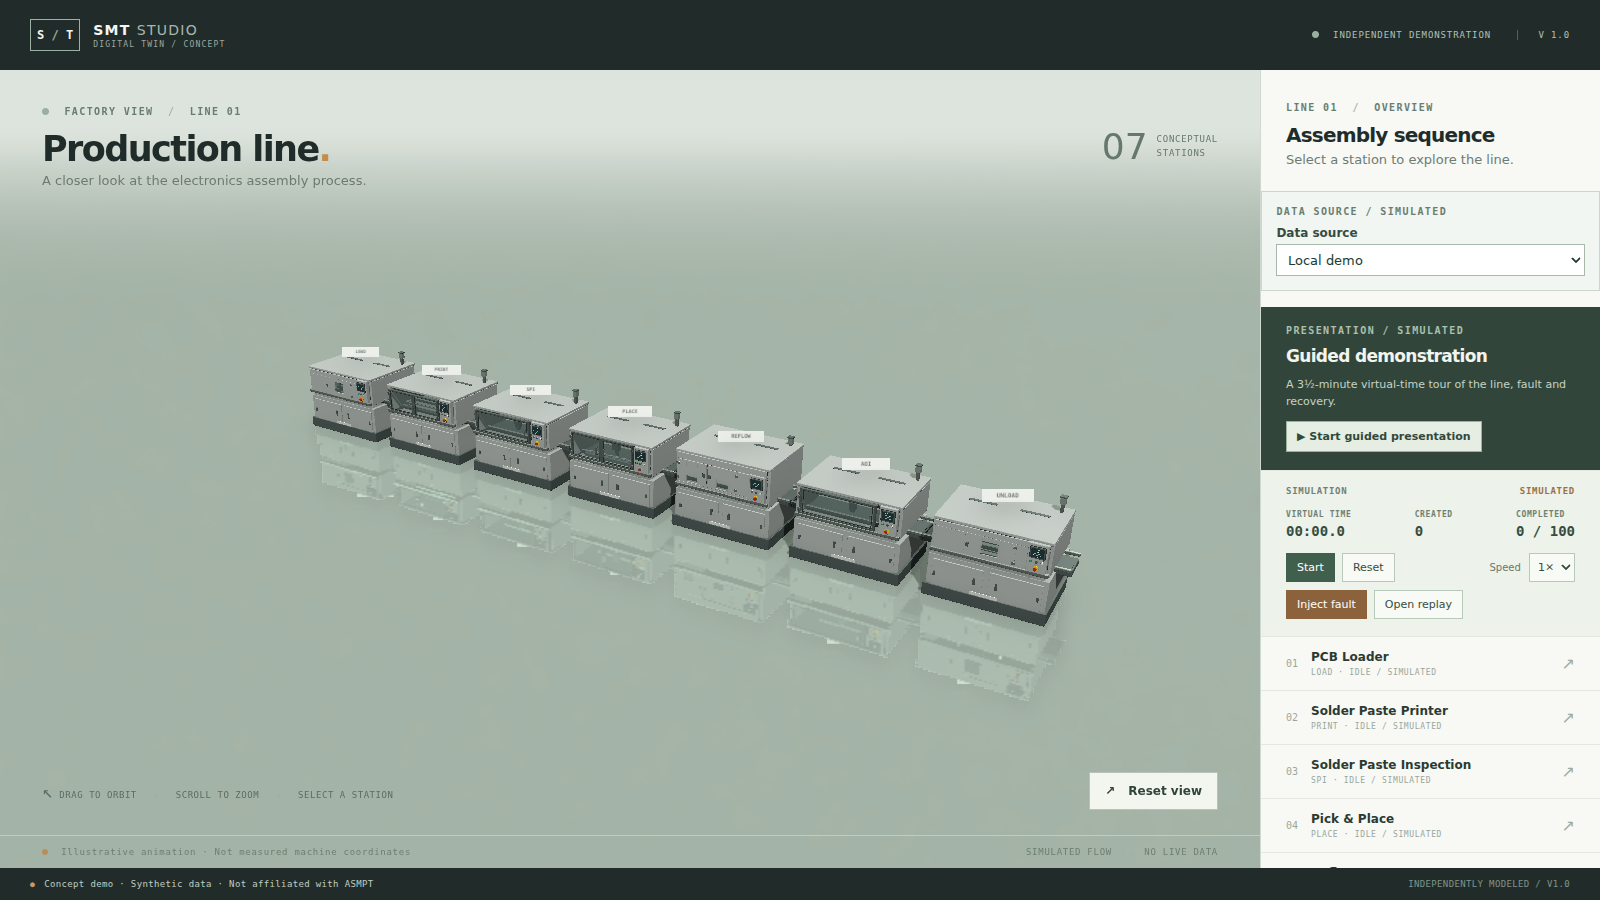
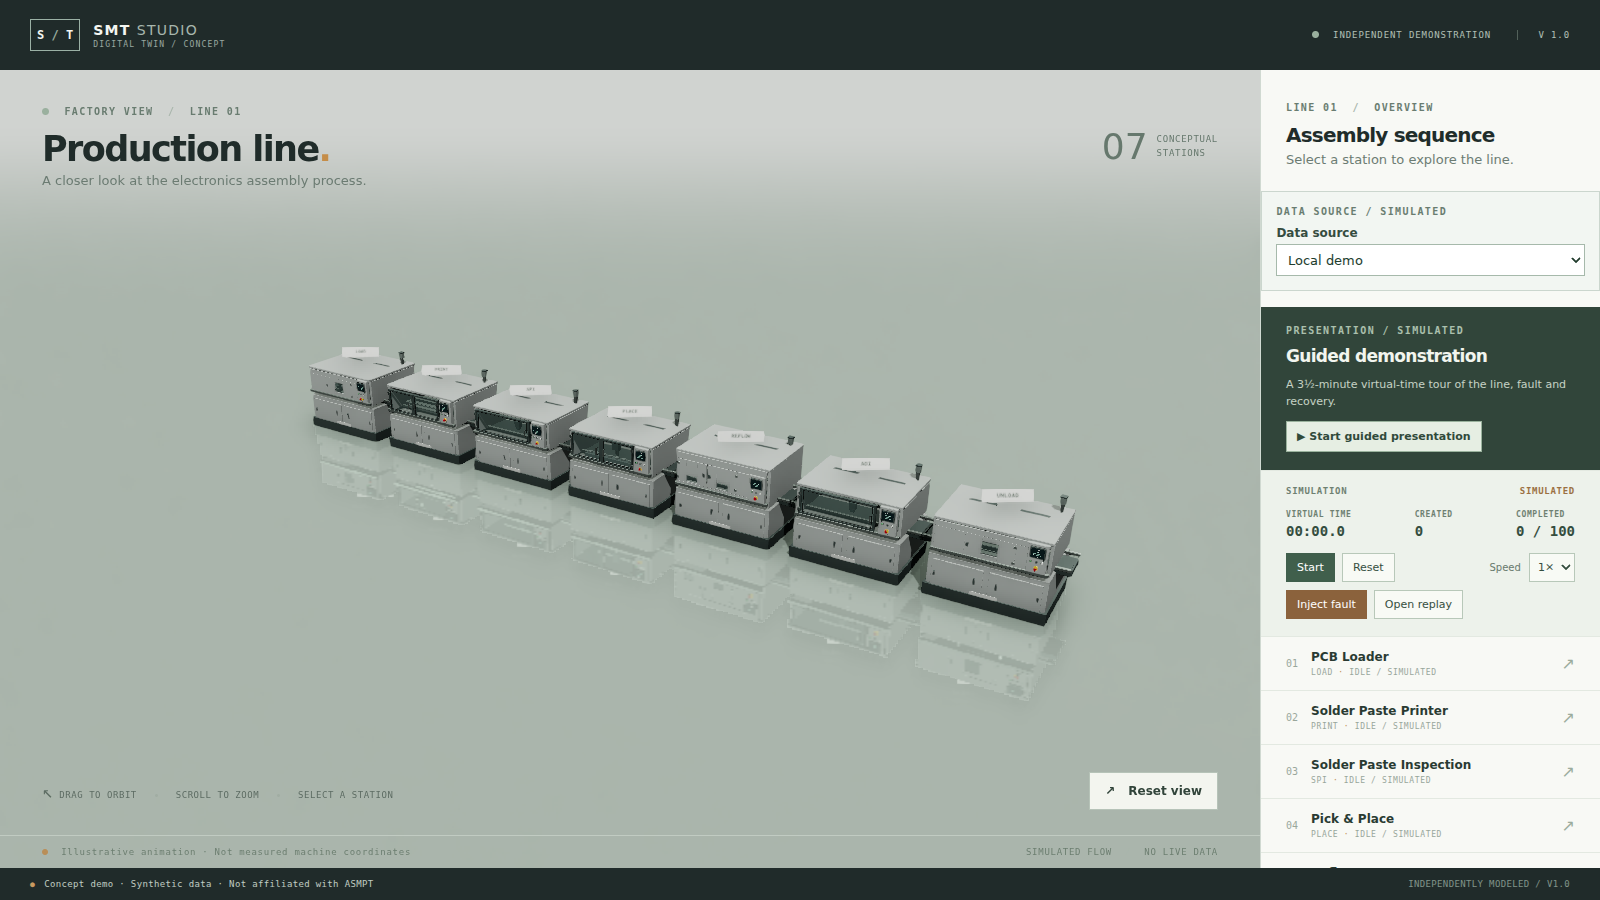
fix: restore tone mapping and MSAA, gate AO on float targets
Review found the composer bypassed ACES/exposure, dropped MSAA, recreated
itself on every resize and blanked the stage without float render targets.

diff --git a/src/scene/AO.tsx b/src/scene/AO.tsx
@@ -1,31 +1,52 @@
 import { useEffect, useMemo } from 'react'
 import { useFrame, useThree } from '@react-three/fiber'
 import { EffectComposer } from 'three/examples/jsm/postprocessing/EffectComposer.js'
+import { OutputPass } from 'three/examples/jsm/postprocessing/OutputPass.js'
+import { SMAAPass } from 'three/examples/jsm/postprocessing/SMAAPass.js'
 import { N8AOPass } from 'n8ao'
+import { aoSupported } from './ao'
 
 /**
  * Screen-space ambient occlusion for the contact shadows under and inside the machines.
- * Renders through a composer itself, so this component takes over rendering (useFrame priority 1).
+ *
+ * N8AO draws the scene into its own float targets, so three's tone mapping and MSAA do not apply:
+ * gamma correction is left to the OutputPass, and SMAA replaces the lost multisampling. The composer
+ * owns rendering (priority 1) and is built once; resizes only call `setSize`.
  */
 export default function AmbientOcclusion() {
   const { gl, scene, camera, size, viewport } = useThree()
+  const supported = aoSupported(gl.extensions)
   const composer = useMemo(() => {
+    if (!supported) return null
     const instance = new EffectComposer(gl)
-    const pass = new N8AOPass(scene, camera, size.width, size.height)
-    pass.configuration.aoRadius = 0.6
-    pass.configuration.distanceFalloff = 0.8
-    pass.configuration.intensity = 1.5
-    pass.configuration.halfRes = true
-    instance.addPass(pass)
+    const ao = new N8AOPass(scene, camera, size.width, size.height)
+    ao.configuration.aoRadius = 1.0
+    ao.configuration.distanceFalloff = 1.0
+    ao.configuration.intensity = 2.5
+    ao.configuration.halfRes = true
+    ao.configuration.gammaCorrection = false
+    instance.addPass(ao)
+    instance.addPass(new SMAAPass())
+    instance.addPass(new OutputPass())
     return instance
-  }, [gl, scene, camera, size.width, size.height])
+    // Built once per renderer/scene/camera; size changes go through setSize below.
+  }, [gl, scene, camera, supported])
 
   useEffect(() => {
+    if (!composer) {
+      console.warn('Ambient occlusion disabled: the WebGL context has no float render targets.')
+      document.body.dataset.renderer = 'direct'
+      return
+    }
+    document.body.dataset.renderer = 'composed'
     composer.setPixelRatio(viewport.dpr)
     composer.setSize(size.width, size.height)
   }, [composer, size.width, size.height, viewport.dpr])
 
-  useEffect(() => () => composer.dispose(), [composer])
-  useFrame(() => composer.render(), 1)
+  useEffect(() => () => composer?.dispose(), [composer])
+  useFrame(() => {
+    if (composer) composer.render()
+    else gl.render(scene, camera)
+  }, 1)
   return null
 }

diff --git a/tests/e2e/factory.spec.ts b/tests/e2e/factory.spec.ts
@@ -40,7 +40,7 @@ test('a drag during the push-in cancels the ease without breaking the scene', as
   expect(errors).toEqual([])
 })
 
-for (const [mode, query] of [['ambient occlusion', ''], ['low quality', '?quality=low']]) {
+for (const [mode, query, renderer] of [['ambient occlusion', '', 'composed'], ['low quality', '?quality=low', 'direct']]) {
 test(`renders the scene with ${mode} without console errors or cross-origin requests`, async ({ page }) => {
   const errors: string[] = []
   const external: string[] = []
@@ -53,6 +53,7 @@ test(`renders the scene with ${mode} without console errors or cross-origin requ
   })
   await page.goto(`/${query}`)
   await expect(page.locator('canvas')).toBeVisible()
+  await expect(page.locator('body')).toHaveAttribute('data-renderer', renderer)
   await page.waitForTimeout(1500)
   await page.screenshot({ path: `test-results/overview-${query ? 'low' : 'ao'}.png`, animations: 'disabled' })
   await page.getByRole('button', { name: /Pick & Place/ }).click()
@@ -62,3 +63,19 @@ test(`renders the scene with ${mode} without console errors or cross-origin requ
   expect(errors).toEqual([])
 })
 }
+
+test('falls back to direct rendering when the context cannot render to float targets', async ({ page }) => {
+  await page.addInitScript(() => {
+    const original = WebGL2RenderingContext.prototype.getExtension
+    WebGL2RenderingContext.prototype.getExtension = function (name: string) {
+      if (name === 'EXT_color_buffer_float') return null
+      return original.call(this, name)
+    }
+  })
+  const warnings: string[] = []
+  page.on('console', message => { if (message.type() === 'warning') warnings.push(message.text()) })
+  await page.goto('/')
+  await expect(page.locator('canvas')).toBeVisible()
+  await expect(page.locator('body')).toHaveAttribute('data-renderer', 'direct')
+  await expect.poll(() => warnings.some(text => text.includes('Ambient occlusion disabled'))).toBe(true)
+})

diff --git a/src/scene/Factory.tsx b/src/scene/Factory.tsx
@@ -17,6 +17,11 @@ import AmbientOcclusion from './AO'
 import { aoEnabled } from './ao'
 import { castsShadow } from './assetMaterials'
 
+function RenderMode({ mode }: { mode: 'composed' | 'direct' }) {
+  useEffect(() => { document.body.dataset.renderer = mode }, [mode])
+  return null
+}
+
 function Box({ position, size, color, metal = 0.25, name }: { position: [number, number, number]; size: [number, number, number]; color: string; metal?: number; name?: string }) {
   return <mesh name={name} position={position} castShadow receiveShadow><boxGeometry args={size} /><meshStandardMaterial color={color} metalness={metal} roughness={0.57} /></mesh>
 }
@@ -210,7 +215,9 @@ export default function Factory({ selected, onSelect, resetKey, scene, selectedB
   return <Canvas shadows dpr={[1, 1.5]} gl={{ toneMappingExposure: EXPOSURE }} camera={{ position: overviewCamera.position, fov: 40 }} fallback={<div className="canvas-fallback">3D view unavailable. WebGL is required to view the factory.</div>}>
     <color attach="background" args={['#dde4dd']} /><fog attach="fog" args={['#dde4dd', 45, 110]} />
     <LightRig />
-    {aoEnabled(typeof window === 'undefined' ? '' : window.location.search) && <AmbientOcclusion />}
+    {aoEnabled(typeof window === 'undefined' ? '' : window.location.search)
+      ? <AmbientOcclusion />
+      : <RenderMode mode="direct" />}
     <Floor />
     {stations.map(station => <Machine key={station.id} station={station} machine={scene.stations[station.id]?.localMotion ?? null} status={scene.stations[station.id]?.state ?? 'UNKNOWN'} time={scene.simTimeMs} selected={selected?.id === station.id || boardStation === station.id} onSelect={() => onSelect(station)} />)}
     <Boards scene={scene} selectedBoard={selectedBoard} onSelectBoard={onSelectBoard} /><CameraRig station={selected} resetKey={resetKey} />

diff --git a/tests/unit/ao.test.ts b/tests/unit/ao.test.ts
@@ -1,5 +1,5 @@
 import { describe, expect, it } from 'vitest'
-import { aoEnabled } from '../../src/scene/ao'
+import { aoEnabled, aoSupported } from '../../src/scene/ao'
 
 describe('ambient occlusion switch', () => {
   it('runs by default and in remote mode', () => {
@@ -11,5 +11,17 @@ describe('ambient occlusion switch', () => {
   it('is skipped with the existing low-quality switch', () => {
     expect(aoEnabled('?quality=low')).toBe(false)
     expect(aoEnabled('?source=remote&quality=low')).toBe(false)
+  })
+
+  it('can be disabled without skipping the environment, for comparison', () => {
+    expect(aoEnabled('?ao=off')).toBe(false)
+    expect(aoEnabled('?ao=on&quality=low')).toBe(false)
+  })
+})
+
+describe('ambient occlusion capability', () => {
+  it('requires float render targets', () => {
+    expect(aoSupported({ has: name => name === 'EXT_color_buffer_float' })).toBe(true)
+    expect(aoSupported({ has: () => false })).toBe(false)
   })
 })

diff --git a/src/scene/ao.ts b/src/scene/ao.ts
@@ -1,4 +1,14 @@
-/** `?quality=low` also skips the ambient-occlusion pass: its depth prepass is the expensive part. */
+/**
+ * `?quality=low` skips the ambient-occlusion pass along with the environment bake.
+ * `?ao=off` skips only the pass, which is how its cost and its look are compared.
+ */
 export function aoEnabled(search: string): boolean {
-  return new URLSearchParams(search).get('quality') !== 'low'
+  const params = new URLSearchParams(search)
+  if (params.get('quality') === 'low') return false
+  return params.get('ao') !== 'off'
+}
+
+/** N8AO renders into half-float colour and full-float depth targets; without them the stage goes blank. */
+export function aoSupported(extensions: { has(name: string): boolean }): boolean {
+  return extensions.has('EXT_color_buffer_float')
 }

diff --git a/src/types/n8ao.d.ts b/src/types/n8ao.d.ts
@@ -12,6 +12,7 @@ declare module 'n8ao' {
       halfRes: boolean
       depthAwareUpsampling: boolean
       transparencyAware: boolean
+      gammaCorrection: boolean
     }
   }
 }

diff --git a/docs/MATERIALS_AO_REPORT.md b/docs/MATERIALS_AO_REPORT.md
@@ -4,9 +4,10 @@ Date: 2026-11-13. Branch: `v16-materials-ao`. **Awaiting user visual acceptance.
 
 ## Delivered
 
-- **Powder coat** changed from a bright, semi-metallic paint to matte paint: base colour `(.46, .49, .47)` (was `.68/.72/.69`), metallic `.04` (was `.27`), roughness `.62` (was `.48`). The metallic value on a non-metal surface was the main source of the plastic sheen. All seven GLBs were regenerated from the same geometry; only material factors changed.
-- **Ambient occlusion** via the `n8ao` pass (`N8AOPass`), mounted through a three `EffectComposer` so the camera and scene come from R3F directly. Settings: half resolution, `aoRadius 0.6`, `distanceFalloff 0.8`, `intensity 1.5`.
-- The pass is gated by `aoEnabled(search)` and skipped entirely with `?quality=low`, matching the existing lighting fallback. The query string is read at render time, not re-read on every frame.
+- **Powder coat** changed from bright semi-metallic paint to matte paint: base colour `(.46, .49, .47)` (was `.68/.72/.69`), metallic `.04` (was `.27`), roughness `.62` (was `.48`). All seven GLBs were regenerated; geometry is byte-for-byte identical and only that one material changed in each file.
+- **Ambient occlusion** via `n8ao`'s `N8AOPass` in a three `EffectComposer`: half resolution, `aoRadius 1.0`, `distanceFalloff 1.0`, `intensity 2.5`.
+- The composer ends with `SMAAPass` and `OutputPass`. N8AO draws into its own float target, so three's tone mapping and MSAA would otherwise be lost; N8AO's own gamma correction is disabled and the `OutputPass` applies ACES and the existing `toneMappingExposure` exactly as the direct path does.
+- The pass is skipped by `?quality=low` (with the environment bake) and by `?ao=off` (pass only, for comparison). It is also gated at runtime on `EXT_color_buffer_float`: without float render targets the demo renders directly and warns, instead of showing an empty stage.
 - No geometry, camera, simulation, backend or copy changes. No downloaded textures.
 
 ## Inspect
@@ -15,33 +16,45 @@ Date: 2026-11-13. Branch: `v16-materials-ao`. **Awaiting user visual acceptance.
 npm run dev -- --host 127.0.0.1 --port 5188
 ```
 
-| Before (old paint, no AO) | After (matte paint + AO) |
+| Base `6b16446` (old paint, no AO) | This branch (matte paint + AO) |
 | --- | --- |
 | ![Before](screenshots/materials-ao/before-overview.png) | ![After](screenshots/materials-ao/overview.png) |
 
-Close-ups: [mounter](screenshots/materials-ao/mounter.png) · [printer](screenshots/materials-ao/printer.png) · [reflow](screenshots/materials-ao/reflow.png). Low quality (no AO): [overview](screenshots/materials-ao/overview-low.png) · [mounter](screenshots/materials-ao/mounter-low.png).
+Isolating the two levers on the same build:
 
-Inspected at 1600×900 in headless Chromium/SwiftShader: contact shading now sits under every cabinet, inside door recesses and along panel seams; the glazed interiors stay readable rather than going black; the reflective floor shows no doubled or leaking AO; no console or page errors with the pass on or off.
+- paint only: [overview without AO](screenshots/materials-ao/overview-no-ao.png) — the matte paint is the larger change; the line loses its plastic sheen.
+- AO only (same paint, AO off → on): compare that image with [the overview](screenshots/materials-ao/overview.png).
+
+Close-ups with AO: [mounter](screenshots/materials-ao/mounter.png) · [printer](screenshots/materials-ao/printer.png) · [SPI](screenshots/materials-ao/spi.png). Without AO/base: [mounter at base](screenshots/materials-ao/before-mounter.png), [low-quality overview](screenshots/materials-ao/overview-low.png), [low-quality mounter](screenshots/materials-ao/mounter-low.png).
+
+Inspected at 1600×900 in headless Chromium/SwiftShader: the cabinets read as matte paint rather than plastic; AO darkens the recesses under frames, the plinth line and the door returns, and is subtle in the open. Glazed interiors stay readable, the planar floor reflection shows no doubled or leaking AO, and there are no console or page errors in either mode.
 
 ## Measurements
 
 | Item | Value |
 | --- | --- |
-| Bundle | 1,679 kB → 1,844 kB minified (478 → 564 kB gzip); existing >500 kB warning remains |
+| Bundle | 1,679 kB → 1,909 kB minified (478 → 603 kB gzip); existing >500 kB warning remains |
 | New packages | `n8ao@2.0.2`, `@react-three/postprocessing@3.2.2` (brings `postprocessing@6.39.6`) |
-| Overview callback rate, AO on | 2.53 /s |
-| Overview callback rate, `?quality=low` | 5.29 /s |
-| `npx vitest run tests/unit/{assets,ao}.test.ts` | passed |
-| `npm test` | 83 passed, 1 skipped |
+| Callback rate, AO on | 1.68 /s |
+| Callback rate, `?ao=off` (same lighting) | 1.86 /s |
+| Callback rate, `?quality=low` | 3.41 /s |
+| `npm test` | 85 passed, 1 skipped |
 | `npm run typecheck` / `lint` / `build` | exit 0 |
-| `npm run test:e2e` | 30 passed, 1 skipped, 6.3 min |
+| `npm run test:e2e` | 31 passed, 1 skipped, 7.6 min |
 
-Both callback figures are headless SwiftShader at 1366×768, 5-second samples. They say the AO pass roughly doubles software-rasteriser cost; they say nothing about the demo machine, whose GPU previously ran the overview at 150–180 fps.
+Headless SwiftShader at 1366×768, 8-second samples. With the environment lighting held constant the AO pass costs roughly 10 %; most of the `?quality=low` gain comes from skipping the environment bake, not from AO. These are software-rasteriser numbers and say nothing about the demo machine.
+
+## Failure and fallback behaviour
+
+- `?quality=low` or `?ao=off`: no composer is constructed, no extra render targets exist.
+- A context without `EXT_color_buffer_float`: the composer is not built, the scene renders directly, and the console warns once. Pinned by a browser test that stubs the extension and asserts the direct renderer.
+- The browser guard asserts `body[data-renderer]` is `composed` with AO and `direct` with `?quality=low`, so a switch that silently stops working fails the suite.
+- Resizes call `composer.setSize`/`setPixelRatio` on a single composer; they do not rebuild it, so GPU targets are not leaked per resize.
 
 ## Boundaries and decisions
 
-- `@react-three/postprocessing` is installed but the pass is composed manually: its `EffectComposer` accepts `Effect`s, while N8AO ships a `Pass`. The manual composer is the integration N8AO documents, and it keeps R3F's camera and scene untouched.
-- The composer renders with `useFrame` priority 1, so it owns the frame. Any future post effect must be added to that composer rather than mounted beside it.
-- AO is not part of the `?quality=low` fallback by accident: it is the most expensive addition in this round on a software rasteriser.
-- Material changes are independent of AO: reverting the generator commit restores the old paint without touching the pass, and `?quality=low` disables AO without touching the paint.
-- No normal-offset or thickness tuning of the AO was needed; the glazing and the planar floor reflection showed no artifacts at these settings.
+- `@react-three/postprocessing` is installed but only its peer `postprocessing` is used: its composer accepts `Effect`s, while N8AO ships a `Pass`. The manual composer is N8AO's documented integration.
+- The composer owns rendering (`useFrame` priority 1). Any later post effect belongs in that composer.
+- The quality switch is read when the scene mounts; changing `?quality=low` requires a reload, because the composer takes over the frame loop.
+- Material changes are independent of AO: reverting the generator commit restores the old paint without touching the pass, and `?ao=off` disables AO without touching the paint.
+- AO softness is deliberate: `intensity 2.5` gives a legible contact band under the cabinets without dirtying the large flat panels.

diff --git a/README.md b/README.md
@@ -65,7 +65,7 @@ npm run dev
 
 Open the URL printed by Vite. Drag to orbit, scroll to zoom, and click a machine or use the keyboard-accessible station list to focus it. **Reset view** restores the overview. Use **Start/Pause**, **Reset**, and the 1×/2×/5× selector.
 
-The scene uses seven locally packaged GLBs generated from one original Blender pipeline; the procedural shell is only a load-failure fallback. Lighting is an authored showroom rig: three softbox lightformers baked once into an environment map, a key light that casts shadows, and a blurred planar reflection on the floor. Screen-space ambient occlusion adds contact shading in the recesses and under the cabinets; it is skipped with `?quality=low`. No HDRI, texture or font is downloaded — the demo still runs with no network. WebGL is required; a fallback message is shown when it is unavailable.
+The scene uses seven locally packaged GLBs generated from one original Blender pipeline; the procedural shell is only a load-failure fallback. Lighting is an authored showroom rig: three softbox lightformers baked once into an environment map, a key light that casts shadows, and a blurred planar reflection on the floor. Screen-space ambient occlusion adds contact shading in the recesses and under the cabinets; it is skipped with `?quality=low`, and `?ao=off` skips only the pass. Both are read when the scene mounts, so change the URL and reload. No HDRI, texture or font is downloaded — the demo still runs with no network. WebGL is required; a fallback message is shown when it is unavailable.
 
 #### Static deployment
 
@@ -292,7 +292,7 @@ cd tests/integration && W6_PROJECT=w6-e2e-$(date +%s) ./w6-recovery.sh
 
 **Browser demo and build**
 
-- Station mechanisms are conceptual and their travel is bounded illustration, not machine coordinates. Cross-station PCB jumps remain a known visual gap; transfers are instantaneous in the model. Remote (W4) views and their historical replay render the seven models statically because the projection carries no per-station process phase; local replay still drives poses from the recorded virtual time. LOD variants and post-processing (ambient occlusion, bloom, depth of field) are not implemented. The authored environment is the expensive part: headless SwiftShader measures ~3.4 callbacks/s at 1366×768 against ~9.1 for the v1.1 lighting in the same session, while the planar floor costs almost nothing. Open the demo with `?quality=low` to skip the environment bake and return to the v1.1 frame rate; these are software-rasteriser numbers, so measure the demo machine itself before relying on them.
+- Station mechanisms are conceptual and their travel is bounded illustration, not machine coordinates. Cross-station PCB jumps remain a known visual gap; transfers are instantaneous in the model. Remote (W4) views and their historical replay render the seven models statically because the projection carries no per-station process phase; local replay still drives poses from the recorded virtual time. LOD variants are not implemented. Post-processing is limited to ambient occlusion plus SMAA; bloom and depth of field are not implemented. The authored environment is the expensive part. Headless SwiftShader at 1366×768 measures ~1.7 callbacks/s with the environment and ambient occlusion, ~1.9 with AO disabled, and ~3.4 with `?quality=low`, which skips the environment bake. AO itself costs about a tenth of the frame; the planar floor costs almost nothing. These are software-rasteriser numbers, so measure the demo machine itself before relying on them.
 - Analytics are calculated from the in-memory simulated run, not certified KPIs, MES data or production telemetry. Replay logs are in memory; export/import is not implemented.
 - The build targets root deployment; a subpath requires setting Vite's `base`. The bundle exceeds 500 kB and dependency advisories remain.
 

diff --git a/docs/DECISIONS.md b/docs/DECISIONS.md
@@ -67,5 +67,6 @@
 - Powder coat is matte paint: base `(.46, .49, .47)`, metallic `0.04`, roughness `0.62`. The previous values (`.68/.72/.69`, metallic `0.27`) made a non-metal surface read as plastic because of the metallic sheen, not because of its lightness alone.
 - Ambient occlusion runs through `N8AOPass` from `n8ao`, added to a three `EffectComposer` by hand. `@react-three/postprocessing` is installed but only its peer `postprocessing` is used: its composer takes `Effect`s, while N8AO ships a `Pass`.
 - The AO component takes over rendering (`useFrame` priority 1). Any later post effect belongs in that same composer.
-- `?quality=low` skips AO as well as the environment bake; on headless SwiftShader the pass roughly doubles frame cost (2.53 vs 5.29 callbacks/s at 1366×768). Bundle grew 165 kB minified / 86 kB gzip.
-- AO is composed after tone mapping through the same renderer; the glazing and the planar floor reflection showed no doubling or leaking at `intensity 1.5`, half resolution.
+- `?quality=low` skips AO as well as the environment bake; `?ao=off` skips only the pass so its cost and look can be compared. At 1366×768 on headless SwiftShader, with the environment held constant, AO costs about 10 % (1.68 vs 1.86 callbacks/s); nearly all of the low-mode gain is the environment bake (3.41). Bundle grew 165 kB minified / 86 kB gzip.
+- N8AO draws into its own float target, which bypasses three's tone mapping and MSAA. `gammaCorrection` is therefore off and the composer ends with `SMAAPass` and `OutputPass`, so ACES and `toneMappingExposure` still govern the image and edges stay smooth. The glazing and the planar floor reflection showed no doubling or leaking at `intensity 2.5`, half resolution.
+- AO is gated on `EXT_color_buffer_float`; without float render targets the scene renders directly and warns, rather than showing a blank stage.
